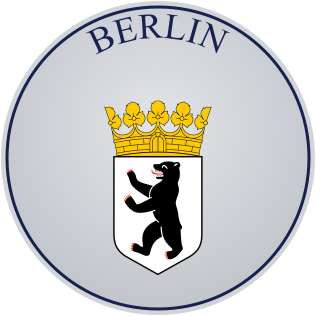
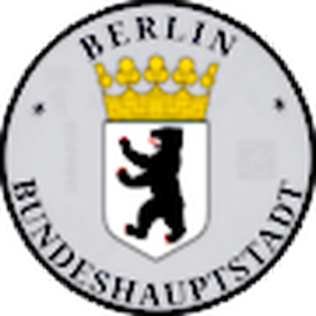
Germany: Berlin's own seals (normal, export red, short-term blue)

diff --git a/app/components/PlateBadge.tsx b/app/components/PlateBadge.tsx
@@ -12,7 +12,7 @@ export { formatPlateText } from "@/app/lib/plateLayout";
 export type { PlateSize };
 
 /** Bump when the plate rendering changes, so CDN-cached images refresh. */
-const PLATE_IMAGE_VERSION = 141;
+const PLATE_IMAGE_VERSION = 142;
 /** Render at 3× for crisp output on high-density screens. */
 const DENSITY = 3;
 

diff --git a/scripts/build-germany-berlin-seals.py b/scripts/build-germany-berlin-seals.py
@@ -1,0 +1,19 @@
+"""Berlin's own seals (supplied photos, assets/germany-seals/BE*.png), trimmed and enlarged to the seal size.
+
+  python scripts/build-germany-berlin-seals.py
+
+BE = normal seal (Bundeshauptstadt), BE-export = export plates (red), BE-temp = short-term plates (blue).
+Run after scripts/build-germany-seals.cjs (this replaces the drawn BE seal).
+"""
+from PIL import Image
+import os
+ROOT = os.path.join(os.path.dirname(__file__), "..")
+OUT = os.path.join(ROOT, "public/plates/germany/seals")
+for name in ("BE", "BE-export", "BE-temp"):
+    im = Image.open(os.path.join(ROOT, f"assets/germany-seals/{name}.png")).convert("RGBA")
+    box = im.getchannel("A").point(lambda a: 255 if a > 40 else 0).getbbox()
+    im = im.crop(box)
+    side = max(im.size)
+    sq = Image.new("RGBA", (side, side), (0, 0, 0, 0)); sq.paste(im, ((side - im.size[0]) // 2, (side - im.size[1]) // 2))
+    sq.resize((316, 316), Image.LANCZOS).save(os.path.join(OUT, f"{name}.png"))
+print("ok")
